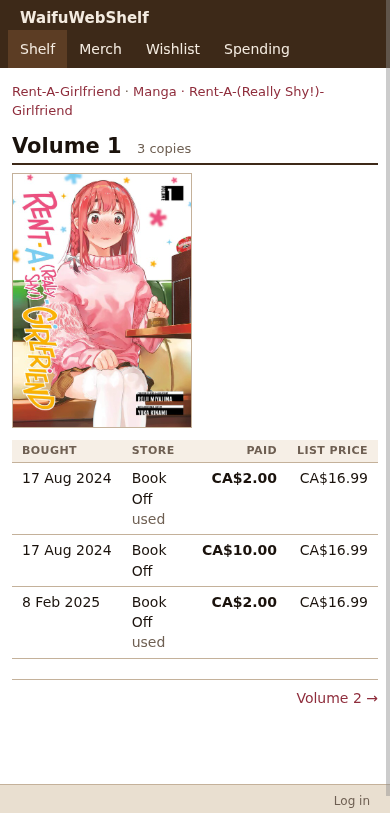
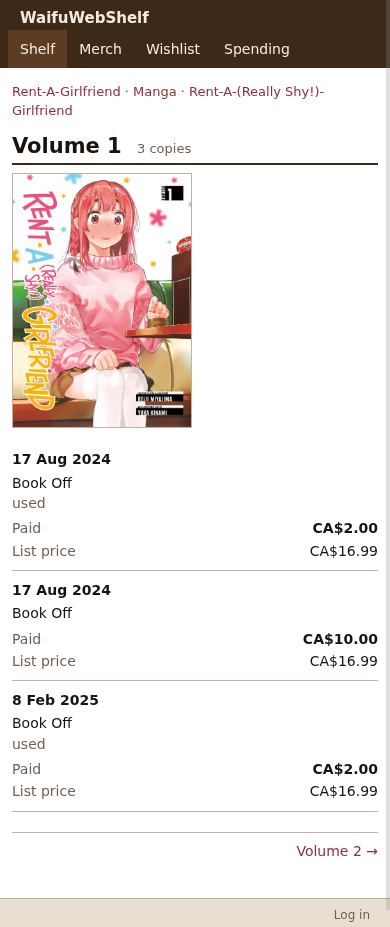
Stack table rows on phones
Each row becomes a small block with the column names as labels, so
nothing is cut off or squeezed on a narrow screen.

Changed region(s): [[0.0, 0.0, 1.0, 0.861], [0.0, 0.9533, 1.0, 1.0], [0.7385, 0.7995, 0.9846, 0.9225]]

diff --git a/static/style.css b/static/style.css
@@ -344,3 +344,35 @@ button.danger { background: var(--danger); border-color: var(--danger); }
   .series-table .name-cell { width: auto; }
   .key { margin-left: 0; }
 }
+
+/* Phones: each table row becomes a small block, with column names as labels */
+@media (max-width: 640px) {
+  .stack-sm, .stack-sm tbody { display: block; }
+  .stack-sm thead { display: none; }
+  .stack-sm tr { display: block; padding: 8px 0; border-bottom: 1px solid var(--line); }
+  .stack-sm tbody tr:hover { background: none; }
+  .stack-sm td { display: flex; justify-content: space-between; gap: 16px; padding: 1px 0; border: 0; text-align: right; white-space: normal; }
+  .stack-sm td[data-label]::before { content: attr(data-label); flex: none; color: var(--muted); font-weight: 400; text-align: left; }
+  .stack-sm td.head { display: block; text-align: left; font-weight: 700; }
+  .stack-sm td.wide { display: block; text-align: left; padding: 2px 0 4px; }
+
+  .series-table, .series-table > tbody { display: block; }
+  .series-table > thead { display: none; }
+  .series-table > tbody > tr { display: grid; grid-template-columns: 64px minmax(0, 1fr); gap: 2px 12px; padding: 10px 0; border-bottom: 1px solid var(--line); }
+  .series-table > tbody > tr > td { display: block; padding: 0; border: 0; }
+  .series-table .catalog-cover { grid-row: 1 / span 3; width: auto; }
+  .series-table .merch-cell { text-align: left; color: var(--muted); }
+  .series-table .merch-cell::before { content: attr(data-label) " "; }
+  .lines, .lines tbody { display: block; }
+  .lines tr { display: flex; justify-content: space-between; gap: 12px; margin: 0 0 2px; }
+  .lines td, .lines td:last-child { display: block; }
+  .lines td:last-child { flex: none; text-align: right; white-space: nowrap; }
+
+  .trips tr { display: grid; grid-template-columns: minmax(0, 1fr) auto; grid-template-areas: "date paid" "store count" "items items"; gap: 0 16px; }
+  .trips td.head { grid-area: date; }
+  .trips td[data-label="Paid"] { grid-area: paid; }
+  .trips td[data-label="Store"] { grid-area: store; justify-content: flex-start; color: var(--muted); }
+  .trips td[data-label="Count"] { grid-area: count; justify-content: flex-end; color: var(--muted); gap: 5px; }
+  .trips td[data-label="Paid"]::before, .trips td[data-label="Store"]::before { content: none; }
+  .trips td.wide { grid-area: items; padding-top: 4px; }
+}

diff --git a/templates/partials.html b/templates/partials.html
@@ -122,14 +122,14 @@
 {{end}}
 
 {{define "wish_money"}}
-<table class="catalog">
+<table class="catalog stack-sm">
   <thead><tr><th>Currency</th><th class="num">Items</th><th class="num">List price</th></tr></thead>
   <tbody>
     {{range .}}
     <tr>
-      <td>{{.Currency}}</td>
-      <td class="num">{{.ItemCount}}</td>
-      <td class="num strong">{{if .WithMSRP}}{{amount .MSRPCents .Currency}}{{else}}—{{end}}</td>
+      <td class="head">{{.Currency}}</td>
+      <td class="num" data-label="Items">{{.ItemCount}}</td>
+      <td class="num strong" data-label="List price">{{if .WithMSRP}}{{amount .MSRPCents .Currency}}{{else}}—{{end}}</td>
     </tr>
     {{end}}
   </tbody>
@@ -139,7 +139,7 @@
 
 {{define "money_block"}}
 {{if .Totals}}
-<table class="catalog">
+<table class="catalog stack-sm">
   <thead>
     <tr>
       <th>Currency</th>
@@ -153,12 +153,12 @@
   <tbody>
     {{range .Totals}}
     <tr>
-      <td>{{.Currency}}</td>
-      <td class="num">{{.ItemCount}}</td>
-      <td class="num strong">{{amount .IncTaxCents .Currency}}</td>
-      {{if $.SignedIn}}<td class="num">{{amount .ExTaxCents .Currency}}</td>{{end}}
-      <td class="num">{{if .WithMSRP}}{{amount .MSRPCents .Currency}}{{else}}—{{end}}</td>
-      <td class="num {{if gt .DeltaCents 0}}under{{else if lt .DeltaCents 0}}over{{end}}">{{if .WithMSRP}}{{amount .DeltaCents .Currency}}{{else}}—{{end}}</td>
+      <td class="head">{{.Currency}}</td>
+      <td class="num" data-label="Items">{{.ItemCount}}</td>
+      <td class="num strong" data-label="Paid">{{amount .IncTaxCents .Currency}}</td>
+      {{if $.SignedIn}}<td class="num" data-label="Before tax">{{amount .ExTaxCents .Currency}}</td>{{end}}
+      <td class="num" data-label="List price">{{if .WithMSRP}}{{amount .MSRPCents .Currency}}{{else}}—{{end}}</td>
+      <td class="num {{if gt .DeltaCents 0}}under{{else if lt .DeltaCents 0}}over{{end}}" data-label="Saved">{{if .WithMSRP}}{{amount .DeltaCents .Currency}}{{else}}—{{end}}</td>
     </tr>
     {{end}}
   </tbody>

diff --git a/templates/volume_detail.html b/templates/volume_detail.html
@@ -15,7 +15,7 @@
     <div>
       {{template "links_list" .Data.Links}}
       <div class="table-wrap">
-        <table class="catalog">
+        <table class="catalog stack-sm">
           <thead>
             <tr>
               <th>Bought</th>
@@ -28,17 +28,17 @@
           <tbody>
             {{range .Data.Copies}}
             <tr>
-              <td class="date">{{if .PurchasedAt.Valid}}{{date .PurchasedAt.String}}{{else}}—{{end}}</td>
-              <td>
+              <td class="date head">{{if .PurchasedAt.Valid}}{{date .PurchasedAt.String}}{{else}}—{{end}}</td>
+              <td class="wide">
                 {{if .ImagePath.Valid}}<img class="thumb" src="{{imageURL .ImagePath.String}}" alt="">{{end}}
                 {{if .Store}}{{.Store}}{{else}}—{{end}}
                 {{if $.SignedIn}} · <a href="/admin/volumes/{{.ID}}/edit">Edit</a>{{end}}
                 {{template "links_list" .Links}}
                 {{if .Notes}}<p class="notes muted">{{.Notes}}</p>{{end}}
               </td>
-              <td class="num strong">{{money .Paid.Valid .Paid.Int64 .Currency}}</td>
-              {{if $.SignedIn}}<td class="num">{{money .PriceExTaxCents.Valid .PriceExTaxCents.Int64 .Currency}}</td>{{end}}
-              <td class="num">{{money .MSRPCents.Valid .MSRPCents.Int64 .Currency}}</td>
+              <td class="num strong" data-label="Paid">{{money .Paid.Valid .Paid.Int64 .Currency}}</td>
+              {{if $.SignedIn}}<td class="num" data-label="Before tax">{{money .PriceExTaxCents.Valid .PriceExTaxCents.Int64 .Currency}}</td>{{end}}
+              <td class="num" data-label="List price">{{money .MSRPCents.Valid .MSRPCents.Int64 .Currency}}</td>
             </tr>
             {{end}}
           </tbody>

diff --git a/templates/stats.html b/templates/stats.html
@@ -19,14 +19,14 @@
   <h2 class="bar">Purchases</h2>
   {{if .Data.Trips}}
   <div class="table-wrap">
-    <table class="catalog">
+    <table class="catalog stack-sm trips">
       <thead><tr><th>Date</th><th>Store</th><th>Items</th><th class="num">Count</th><th class="num">Paid</th></tr></thead>
       <tbody>
         {{range .Data.Trips}}
         <tr>
-          <td class="date">{{if .Date.Valid}}{{date .Date.String}}{{else}}—{{end}}</td>
-          <td>{{if .Store}}{{.Store}}{{else}}—{{end}}</td>
-          <td>
+          <td class="date head">{{if .Date.Valid}}{{date .Date.String}}{{else}}—{{end}}</td>
+          <td data-label="Store">{{if .Store}}{{.Store}}{{else}}—{{end}}</td>
+          <td class="wide">
             {{range $line := .Lines}}
             <p>
               {{if .Merch}}
@@ -37,8 +37,8 @@
             </p>
             {{end}}
           </td>
-          <td class="num">{{.Count}}</td>
-          <td class="num strong">{{range $i, $p := .Paid}}{{if $i}} + {{end}}{{$p}}{{end}}</td>
+          <td class="num" data-label="Count">{{.Count}}</td>
+          <td class="num strong" data-label="Paid">{{range $i, $p := .Paid}}{{if $i}} + {{end}}{{$p}}{{end}}</td>
         </tr>
         {{end}}
       </tbody>

diff --git a/templates/home.html b/templates/home.html
@@ -17,7 +17,7 @@
               <a href="/series/{{.Slug}}">{{if .Cover}}<img src="{{imageURL .Cover}}" alt="">{{else}}<span class="cover-letter">{{printf "%.1s" .Name}}</span>{{end}}</a>
             </td>
             <td class="name-cell"><a class="name" href="/series/{{.Slug}}">{{.Name}}</a></td>
-            <td>
+            <td class="lines-cell">
               {{if .Lines}}
               <table class="lines">
                 {{range .Lines}}
@@ -30,7 +30,7 @@
               </table>
               {{else}}—{{end}}
             </td>
-            <td class="num">{{if .MerchCount}}{{.MerchCount}}{{else}}—{{end}}</td>
+            <td class="num merch-cell" data-label="Merch">{{if .MerchCount}}{{.MerchCount}}{{else}}—{{end}}</td>
           </tr>
           {{end}}
         </tbody>
